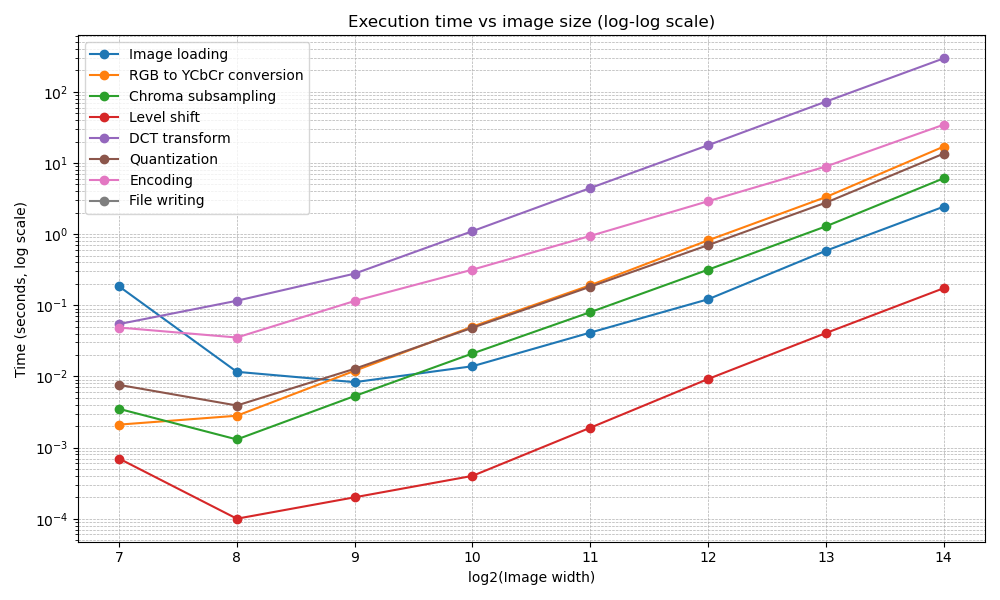
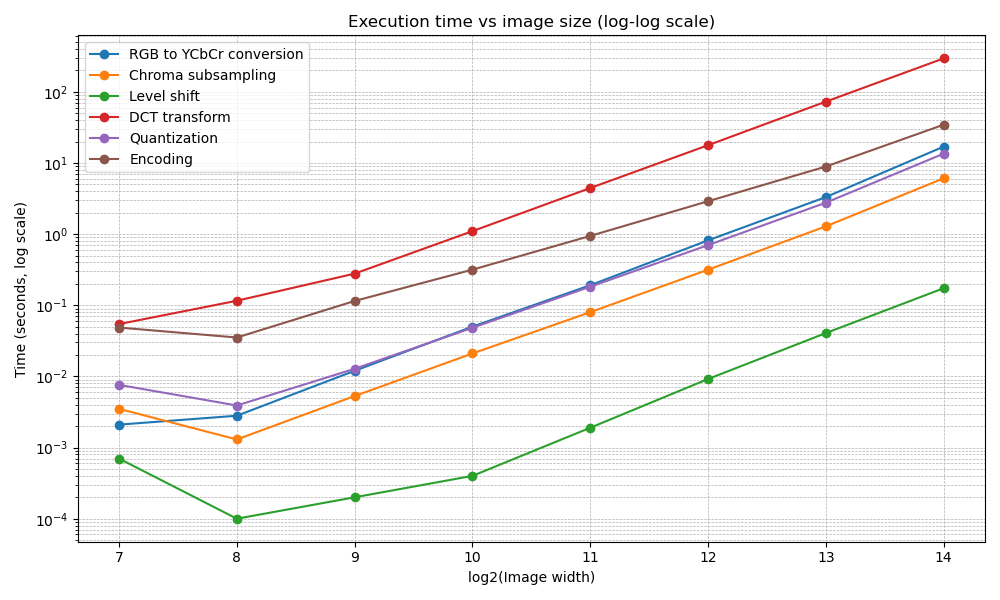
Correct the analysis image for matlab

diff --git a/time_statistic/plot_dct_timing.py b/time_statistic/plot_dct_timing.py
@@ -1,8 +1,13 @@
 import re
 import matplotlib.pyplot as plt
 import numpy as np
+import matplotlib
+matplotlib.use('TkAgg')
 
-# 步骤顺序（排除了 I/O 阶段）
+# 控制优先从文件名获取维度
+prefer_file_name_dims = True
+
+# 处理步骤
 steps = [
     "RGB to YCbCr conversion",
     "Chroma subsampling",
@@ -12,69 +17,70 @@ steps = [
     "Encoding",
 ]
 
-import matplotlib
-matplotlib.use('TkAgg')
-
-
 # 初始化数据结构
 sizes = []
 times = {step: [] for step in steps}
 percentages = {step: [] for step in steps}
 total_times = []
 
-# 读取日志内容
-with open("pc_log.txt", "r") as f:
+# 读取日志
+with open("matlab_log_home.txt", "r") as f:
     content = f.read()
 
-# 分组解析每段日志块
 blocks = content.split("========================================")
 for block in blocks:
     if "Image name" not in block:
         continue
-    # ✅ 新：提取图像宽度、通道数
-    dim_match = re.search(r'Width:\s+(\d+)\s+Height:\s+(\d+)\s+Channels:\s+(\d+)', block)
-    if not dim_match:
-        continue
-    width = int(dim_match.group(1))
-    # height = int(dim_match.group(2))  # 如需高度可启用
-    # channels = int(dim_match.group(3))  # 如需通道数可启用
+
+    width, height, channels = None, None, None
+
+    # 优先从文本字段提取维度信息
+    if not prefer_file_name_dims:
+        dim_match = re.search(r'Width:\s+(\d+)\s+Height:\s+(\d+)\s+Channels:\s+(\d+)', block)
+        if dim_match:
+            width = int(dim_match.group(1))
+            height = int(dim_match.group(2))
+            channels = int(dim_match.group(3))
+
+    # 如果未找到维度信息，尝试从文件名提取
+    if width is None:
+        name_match = re.search(r'image_(\d+)x(\d+)', block)
+        if name_match:
+            width = int(name_match.group(1))
+            height = int(name_match.group(2))
+
+    if width is None:
+        continue  # 如果依旧无法获取尺寸，跳过该日志块
+
     sizes.append(width)
 
-
-    # 解析每个处理阶段耗时
+    # 提取每个阶段的时间
     raw_times = {}
     for step in steps:
         pattern = re.compile(rf'{re.escape(step)} time: ([\d.]+) seconds')
         match = pattern.search(block)
         raw_times[step] = float(match.group(1)) if match else 0.0
 
-    # 提取 I/O 阶段时间
+    # 读取 I/O 时间
     loading_time = float(re.search(r'Image loading time: ([\d.]+)', block).group(1)) if "Image loading time" in block else 0.0
     writing_time = float(re.search(r'File writing time: ([\d.]+)', block).group(1)) if "File writing time" in block else 0.0
-
-    # 总时间
     total_time = float(re.search(r'Total execution time: ([\d.]+)', block).group(1)) if "Total execution time" in block else 0.0
-    total_times.append(total_time)
 
-    # 重新计算净处理时间
+    total_times.append(total_time)
     adjusted_total = total_time - loading_time - writing_time
 
-    # 保存每个阶段的绝对时间
     for step in steps:
         times[step].append(raw_times[step])
 
-    # ✅ 只保留有数据的阶段
     nonzero_steps = [step for step in steps if raw_times[step] > 0]
     active_total = sum([raw_times[step] for step in nonzero_steps])
 
-    # ✅ 动态归一化
     for step in steps:
         if step in nonzero_steps and active_total > 0:
             percent = raw_times[step] / active_total * 100.0
         else:
             percent = 0.0
         percentages[step].append(percent)
-
 
 # 按图像宽度排序
 sort_idx = np.argsort(sizes)
@@ -85,10 +91,9 @@ for step in steps:
     times[step] = [times[step][i] for i in sort_idx]
     percentages[step] = [percentages[step][i] for i in sort_idx]
 
-# 转换为 numpy 数组（用于绘图）
 times_np = {step: np.array(times[step]) for step in steps}
 
-# === 图 1：log-log 时间曲线 ===
+# === 图 1：log-log ===
 plt.figure(figsize=(10, 6))
 for step in steps:
     plt.plot(log_sizes, times_np[step], marker='o', label=step)
@@ -102,7 +107,7 @@ plt.tight_layout()
 plt.savefig("execution_time_loglog.png")
 plt.show()
 
-# === 图 2：百分比堆叠柱状图 + 总时间折线 ===
+# === 图 2：百分比堆叠柱状图 + 总时间 ===
 plt.figure(figsize=(10, 6))
 x = np.arange(len(sizes))
 bottom = np.zeros(len(sizes))
@@ -112,7 +117,6 @@ for step in steps:
     plt.bar(x, vals, bottom=bottom, label=step)
     bottom += vals
 
-# 添加总时间折线图
 ax1 = plt.gca()
 ax2 = ax1.twinx()
 ax2.plot(x, total_times, color='black', marker='o', linestyle='-', label='Total time (s)')
